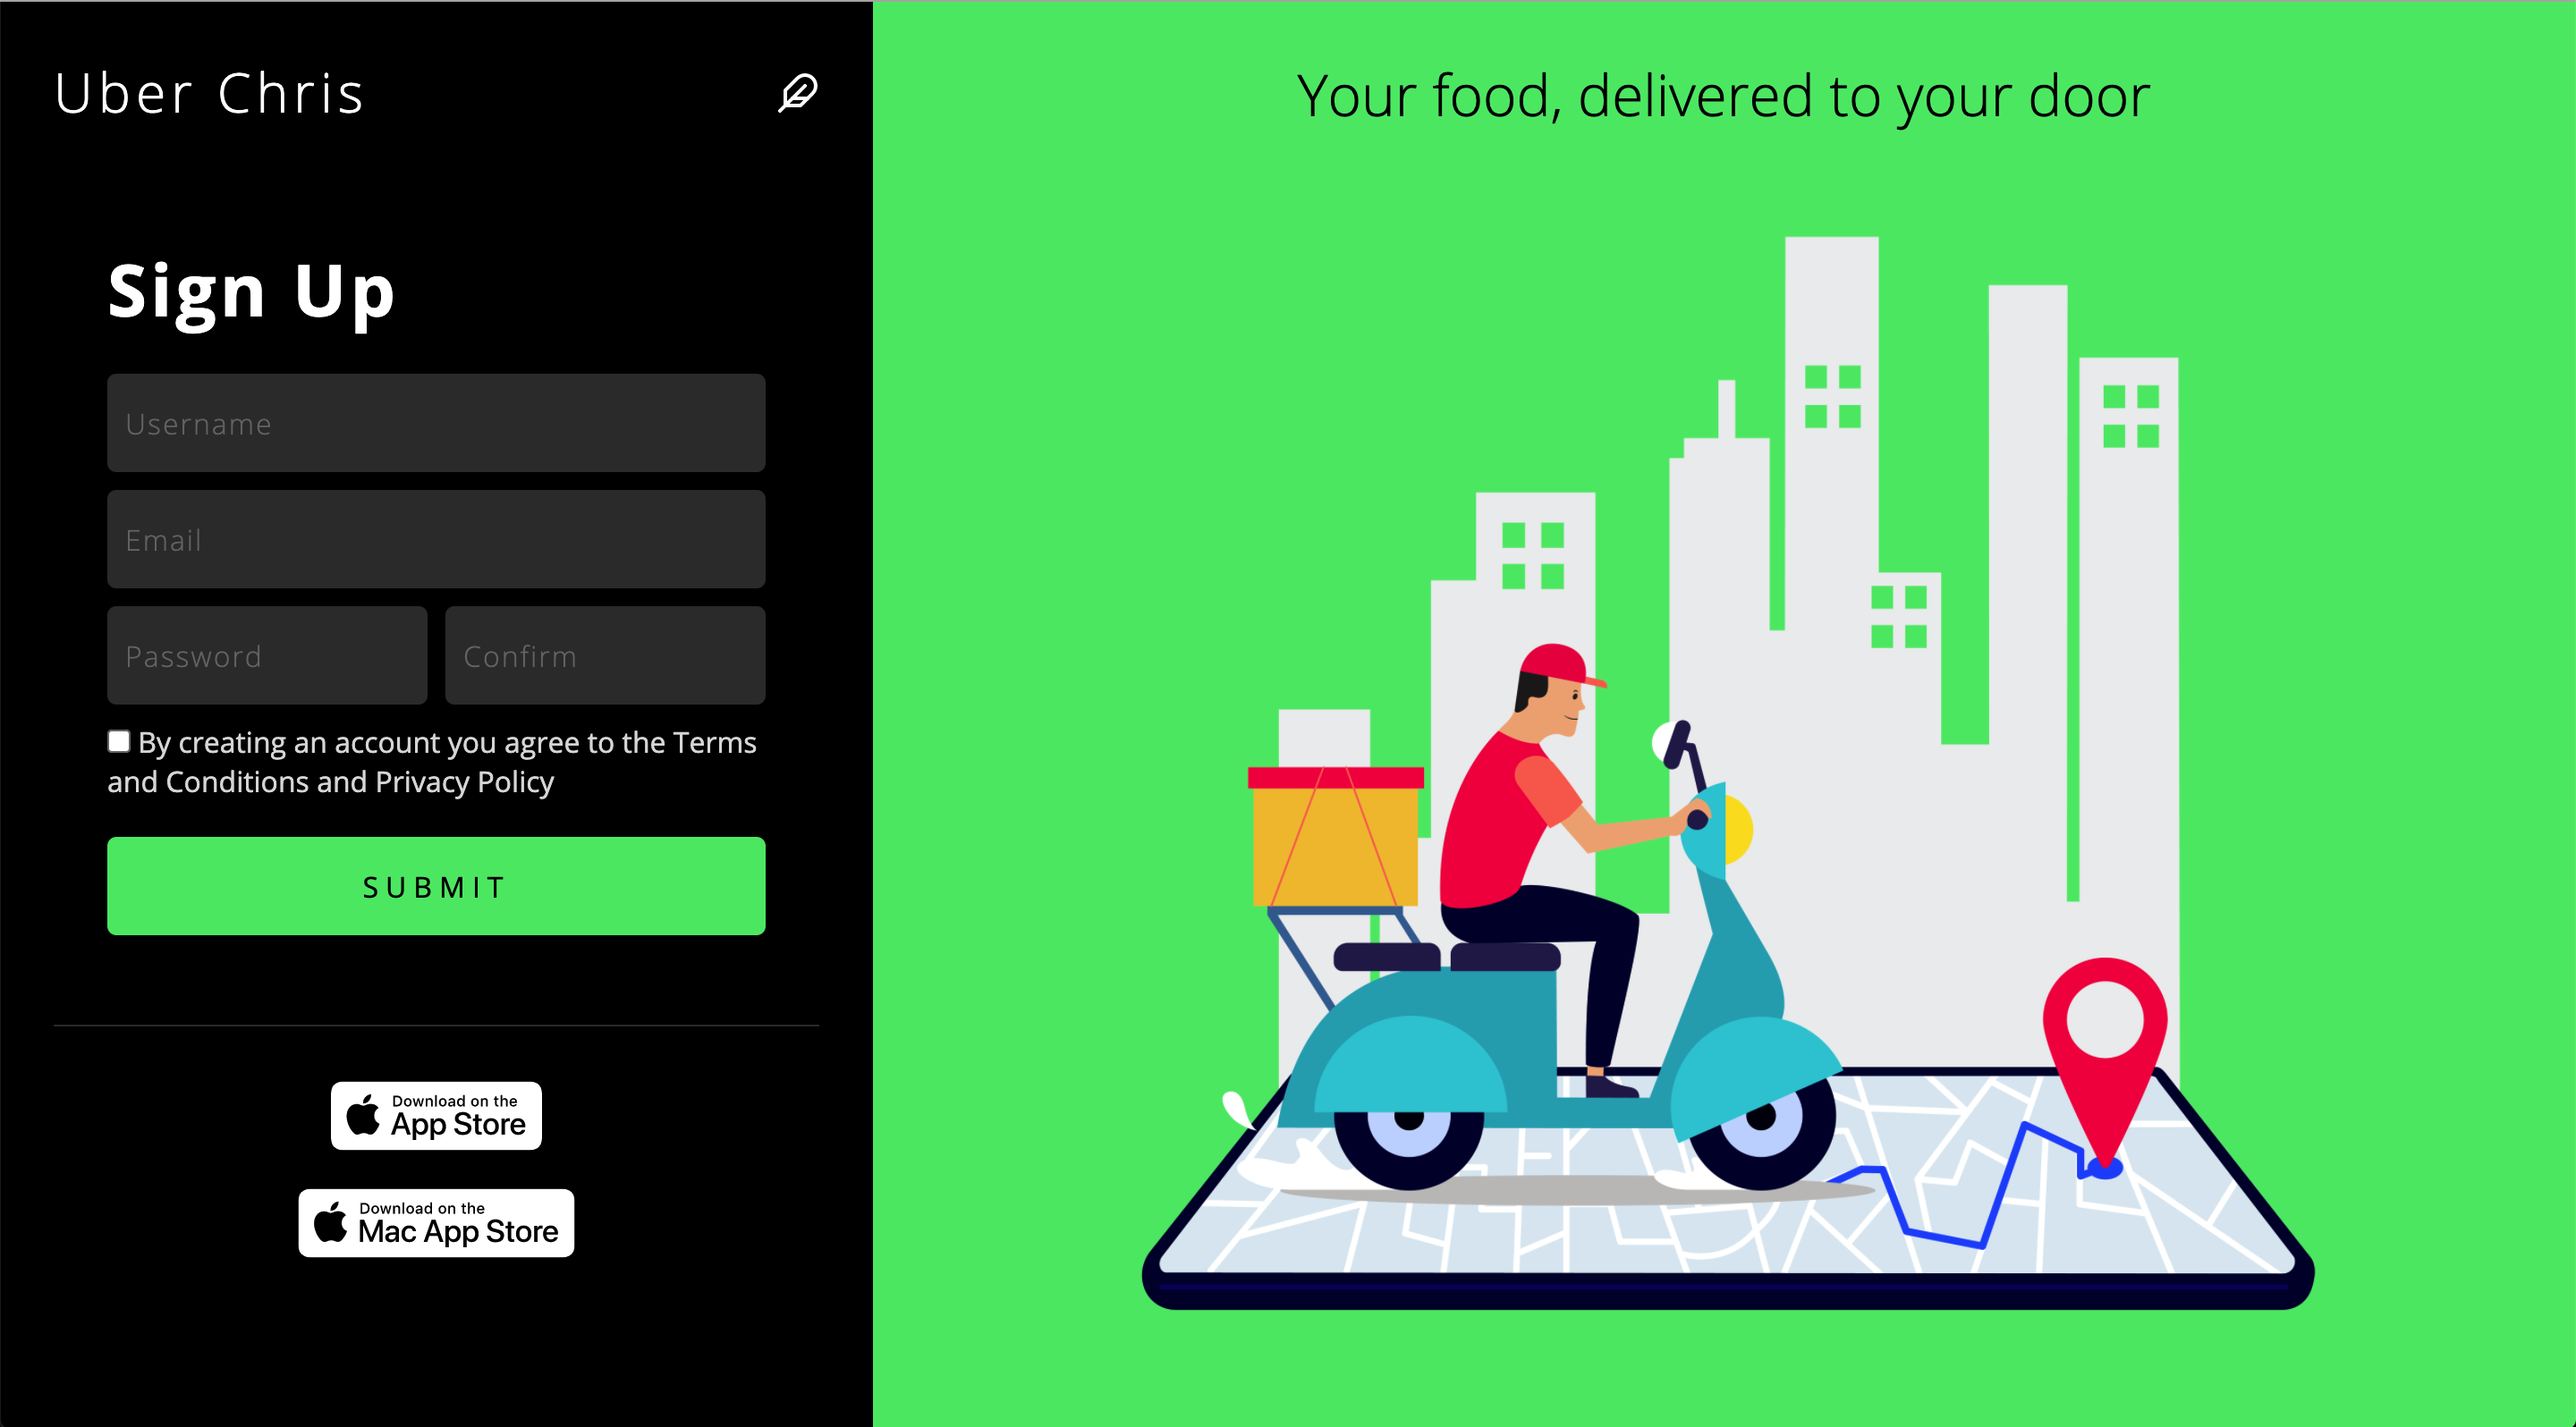
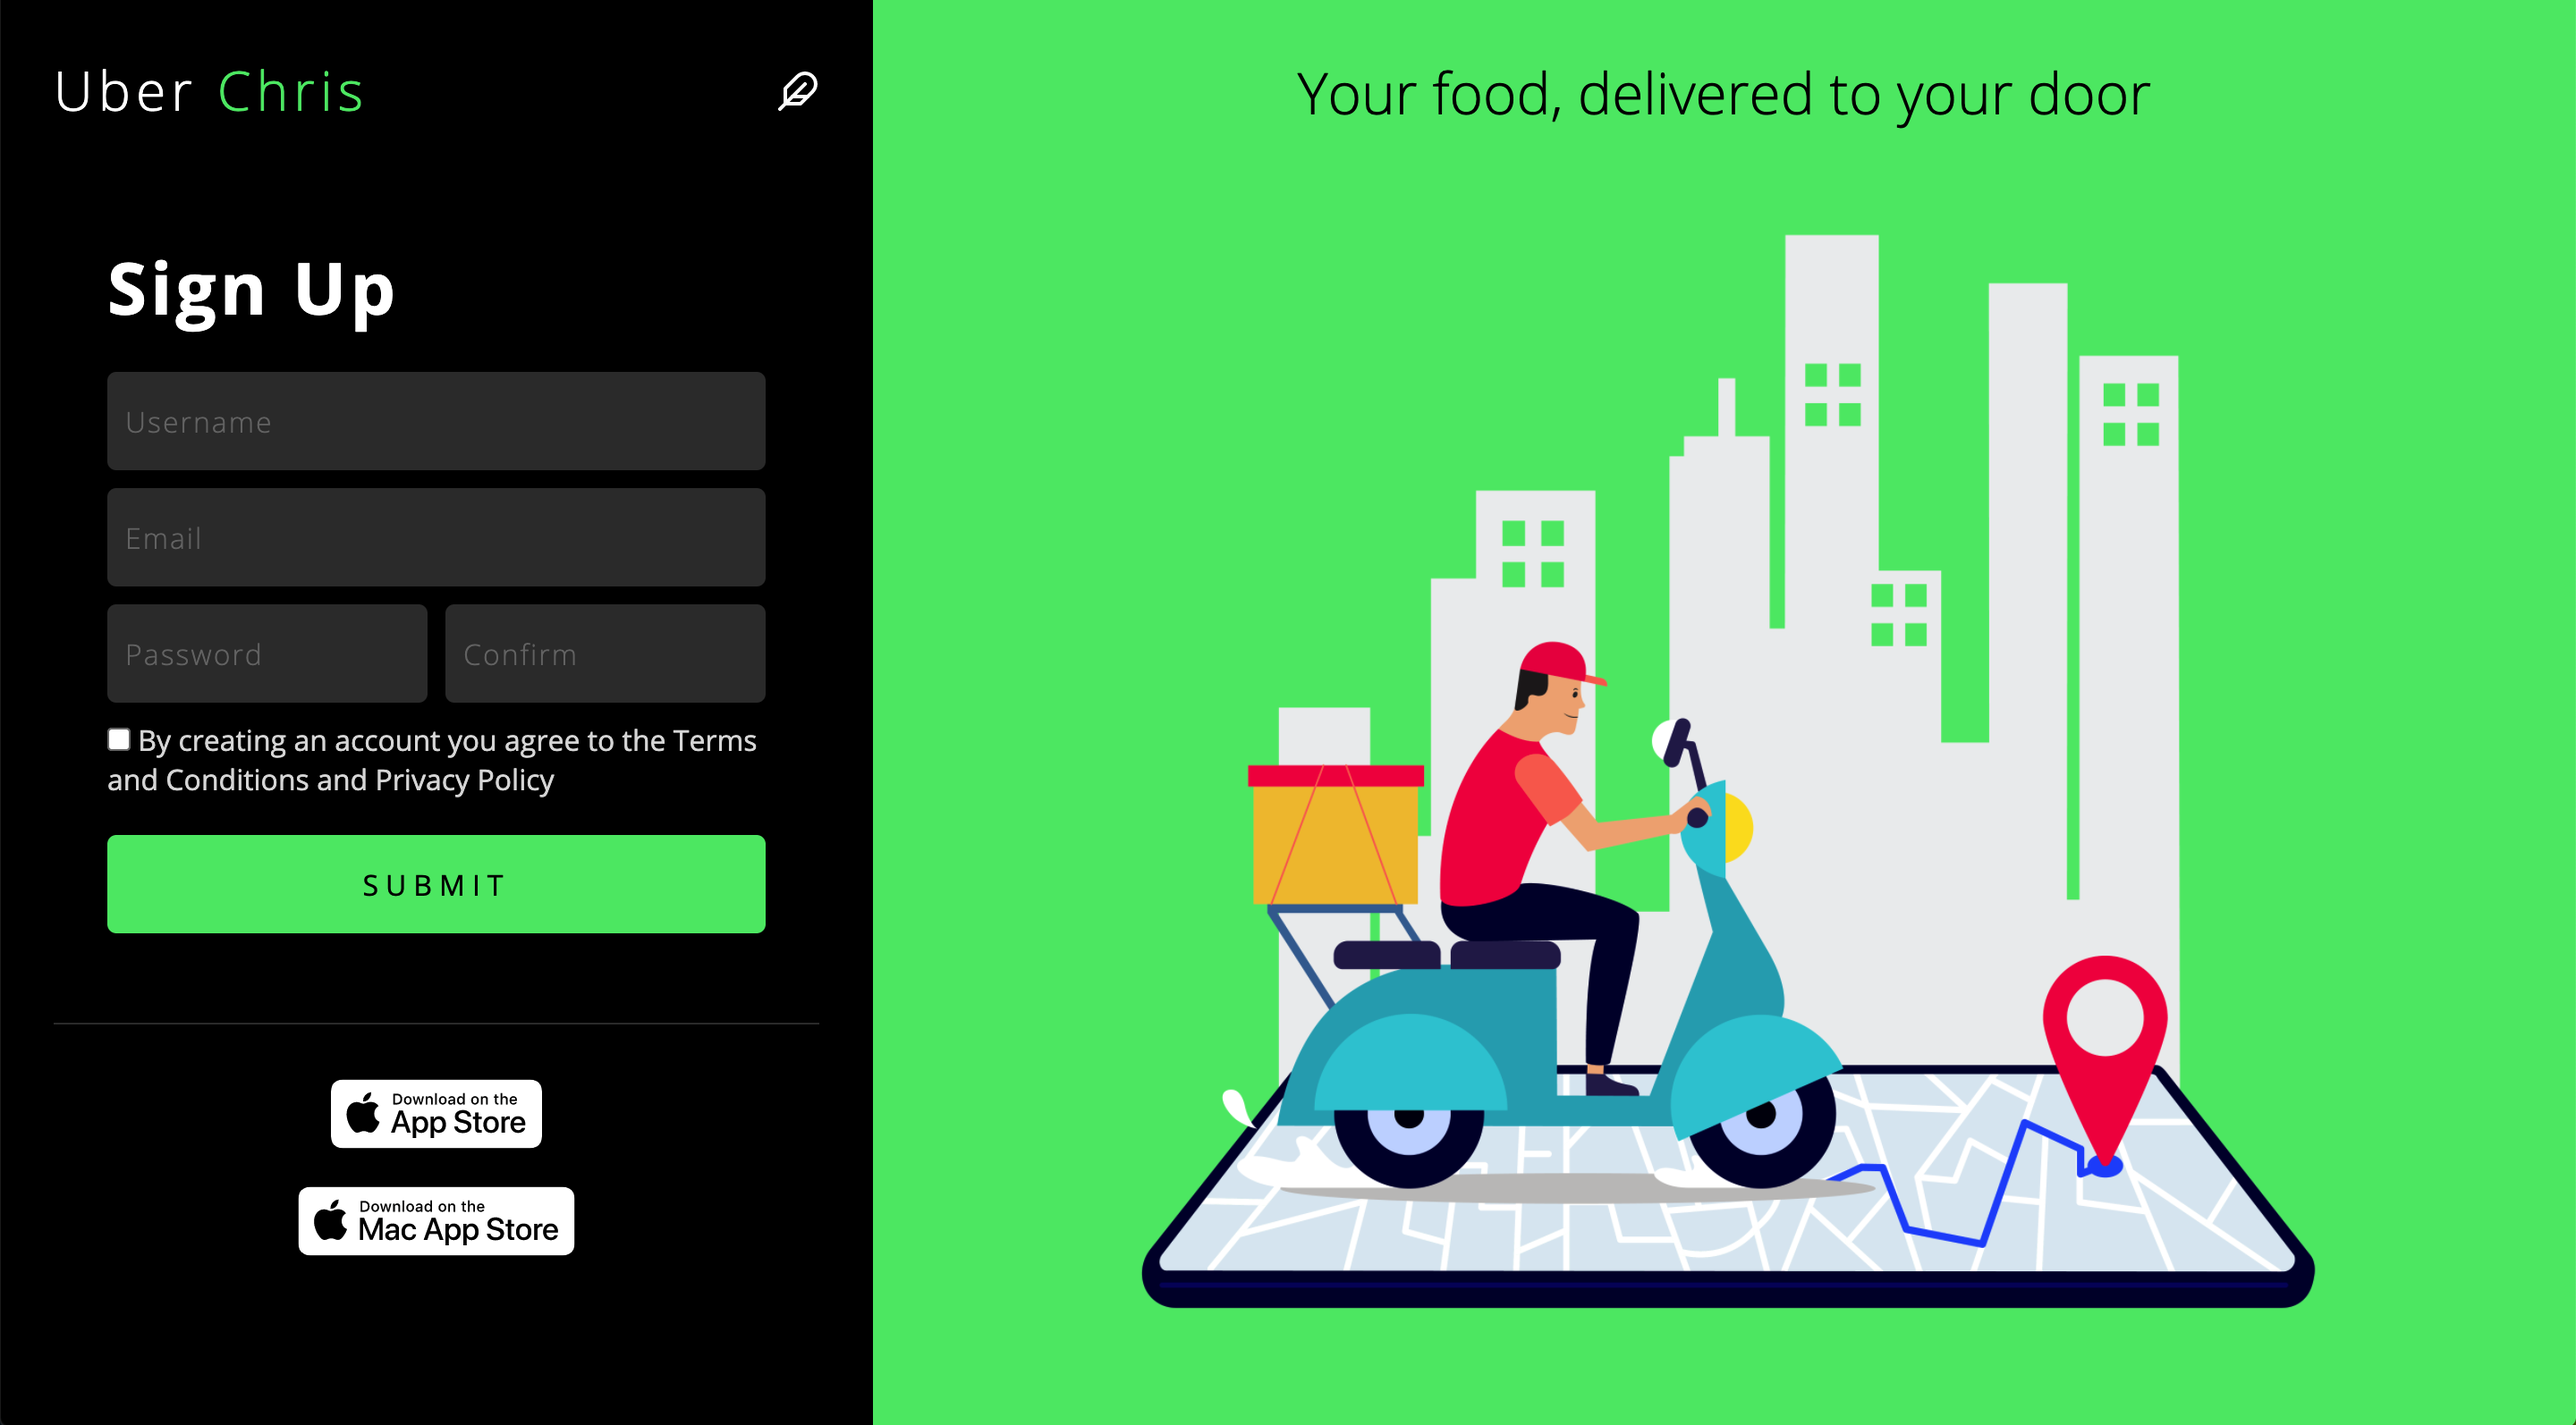
changes made

diff --git a/index.html b/index.html
@@ -3,14 +3,14 @@
   <head>
     <meta charset="UTF-8" />
     <meta name="viewport" content="width=device-width, initial-scale=1.0" />
-    <title>Hey</title>
+    <title>Cosentino</title>
     <link href="styles.css" rel="stylesheet" />
   </head>
   <body>
     <div class="content">
       <div class="form-container">
         <div class="header">
-          <span class="company">Uber Chris</span>
+          <span class="company">Uber <span>Chris</span></span>
           <svg
             xmlns="http://www.w3.org/2000/svg"
             width="24"

diff --git a/styles.css b/styles.css
@@ -119,6 +119,9 @@ form > h1 {
   letter-spacing: 3px;
   font-size: 1.9rem;
 }
+.company > span {
+  color: var(--green-color);
+}
 
 @media only screen and (max-width: 760px) {
   .brand-container {

diff --git a/README.md b/README.md
@@ -1,3 +1,5 @@
 A creative login page I created mainly to focus on CSS.
 
+[Visit Project](https://chriscosentino.github.io/LoginPageLayout/)
+
 ![Image of Screenshot](https://github.com/ChrisCosentino/LoginPageLayout/blob/master/screenshot.png)
